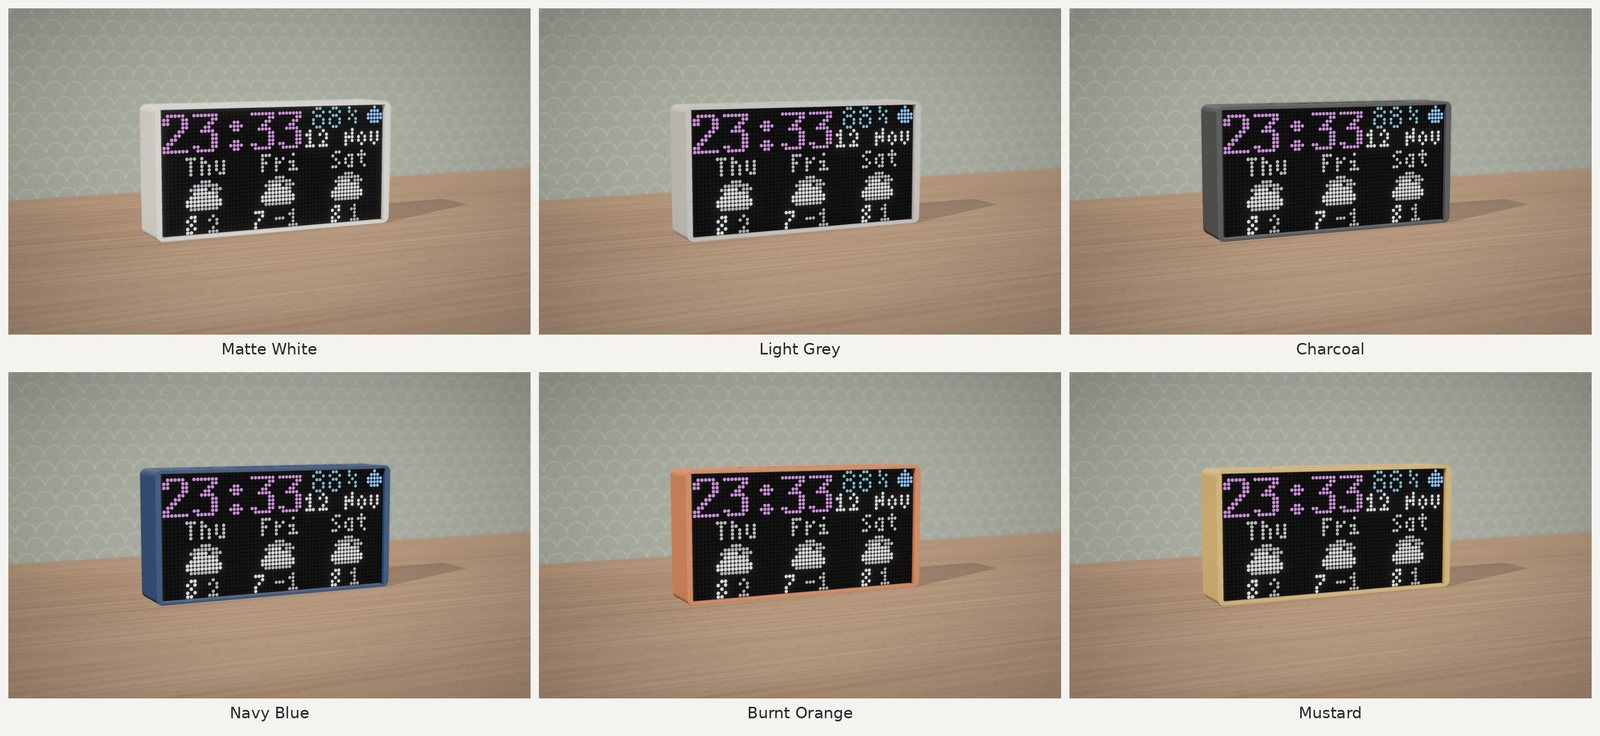
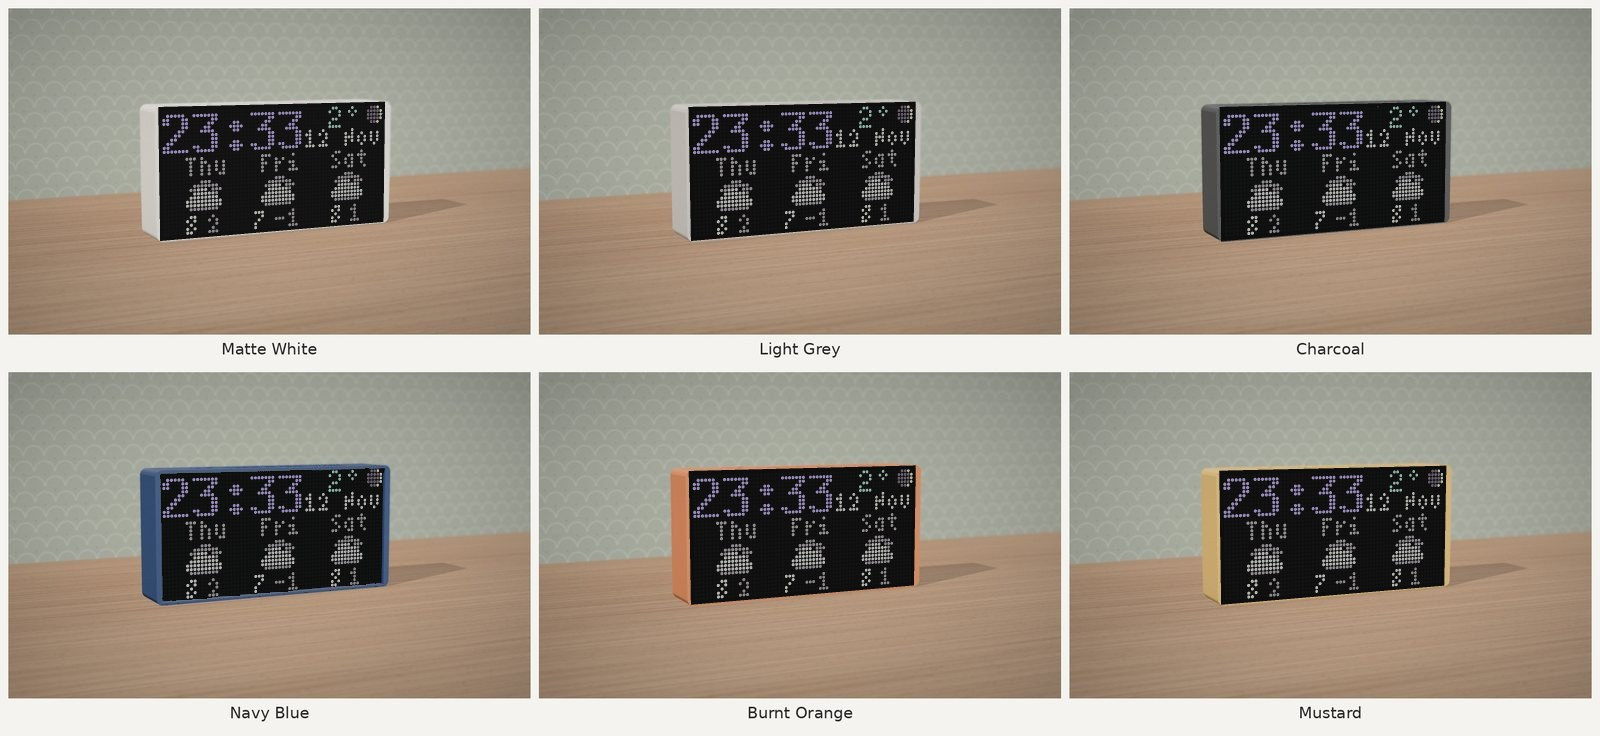
README: the 0.6.4 look, fly-in and new flight pages
- All seven pictures now show the current panel: the clock in Sun arc colours (the Original purple is
  retired), the easyJet pixel logo and compass on the flight screen, and a new animated strip with the
  plane flying in and the new pages (passes closest, seen before).
- Text: the fly-in, the extra pages, emergencies and military, the show-again setting, flight times
  from a second source; Classic style and "four schemes" removed.

diff --git a/README.md b/README.md
@@ -21,18 +21,29 @@ how high it is and how fast. Between planes, it shows the time and the weather.<
 
 <p align="center"><img src="assets/piflight-screens.webp" alt="piFlight cycling through its screens" width="720"></p>
 
-| <img src="assets/screen-flight.png" alt="Flight screen: Glasgow to Belfast, 21,000 ft, 416 knots" width="400"> | <img src="assets/screen-weather.png" alt="Clock with today's weather and a three-day forecast" width="400"> |
+| <img src="assets/screen-flight.png" alt="Flight screen: easyJet from Glasgow to Belfast, 21,000 ft and descending, 410 knots, south-west of you" width="400"> | <img src="assets/screen-weather.png" alt="Clock with today's weather and a three-day forecast" width="400"> |
 |:---:|:---:|
-| **A plane overhead.** Route and distances, altitude with climb or descent, speed and heading, airline and aircraft (and, with Flightradar24, its arrival time against the schedule) | **The clock.** Time, date, temperature and a three-day forecast with pixel-art weather icons |
-| <img src="assets/screen-night-clock.png" alt="Night clock in purple with the moon phase" width="400"> | <img src="assets/screen-clock.png" alt="Clock showing humidity" width="400"> |
-| **At night.** The clock changes colour through the day (pick from four schemes) and the brightness drops at night. The corner shows the moon's phase. | **Humidity.** Every 10 seconds the corner swaps between temperature and humidity |
+| **A plane overhead.** The airline's logo, the route and distances, then still pages: altitude with climb or descent, speed, and a little compass with a dot showing where to look | **The clock.** Time, date, temperature and a three-day forecast with pixel-art weather icons |
+| <img src="assets/screen-night-clock.png" alt="Night clock in lavender with the moon phase" width="400"> | <img src="assets/screen-clock.png" alt="Night clock showing humidity" width="400"> |
+| **At night.** The clock changes colour through the day (Sun arc, Calm or Sky) and the brightness drops at night. The corner shows the moon's phase. | **Humidity.** Every 10 seconds the corner swaps between temperature and humidity |
 
-There are two display styles. **Modern** shows still pages with hand-drawn airline logos. **Classic** shows scrolling text.
+**When a plane appears** it flies across the panel first, in its own shape (single-aisle, wide-body, jumbo,
+turboprop, regional or business jet) with its airline's colours on the tail, nose up when it's climbing and wheels
+down when it's landing. Then its details, a page at a time:
+- the flight number, aircraft, airline and route, with hand-drawn airline logos;
+- the height it has been cleared to ("to 7,000ft") when it's climbing or descending;
+- **when it passes closest** to you: "Passes 0.8mi / in 2 min";
+- from your own log: "Seen 14x / since 3 Oct" for regulars, "First A380 / in 12 days" for a rare visitor;
+- a plane squawking an emergency (7700, 7600, 7500) shows first, in red; military planes are marked;
+- the arrival time and whether it's on time, when a source with times is chosen.
+
+The same plane isn't shown again for 10 minutes (you can choose 5, 20, or every time), unless it declares an emergency.
 
 **Flight data** comes from free open networks, [adsb.lol](https://adsb.lol) and [adsb.fi](https://adsb.fi), taking turns so
 piFlight checks about every 45 seconds with no key, and backing each other up. You can also use your own ADS-B
 receiver on your home network (readsb, dump1090, PiAware or tar1090), or your own Flightradar24 API key.
-You can switch between them in the dashboard.
+The open networks and receivers don't know flight times, so you can add them from a second source: your
+Flightradar24 API key looks each new plane up once. You can switch all of this in the dashboard.
 
 ## The dashboard
 
@@ -40,7 +51,9 @@ Everything is set up from a phone or computer, at **http://piflight.local**:
 - **Home:** a live picture of the panel, its log, and a power test for checking your power supply.
 - **Zone:** drop a pin on your home and choose how far around it to look.
 - **Stats:** the planes you've seen this week or month. It shows top airlines, aircraft, routes and airports, the time of day planes pass, and records.
-- **Settings:** the weather service (Open-Meteo by default), brightness by day and at night, a screen-off schedule, 12 or 24-hour time, and units.
+- **Settings:** where flight data and flight times come from, the plane fly-in, how soon the same plane can show
+  again, the weather service (Open-Meteo by default), brightness by day and at night, a screen-off schedule,
+  12 or 24-hour time, the clock's colours, and units.
 - **Wi-Fi**, **Software update** and **Remote access**.
 
 ## Colours
